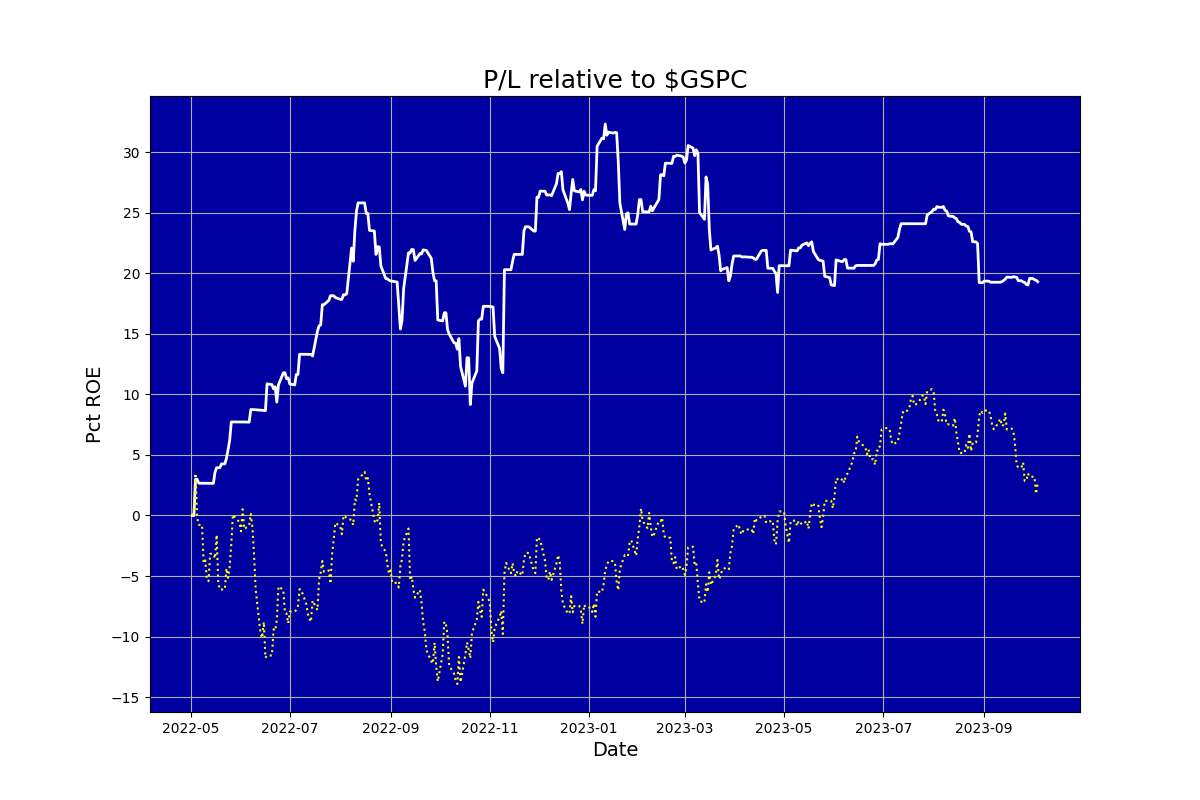
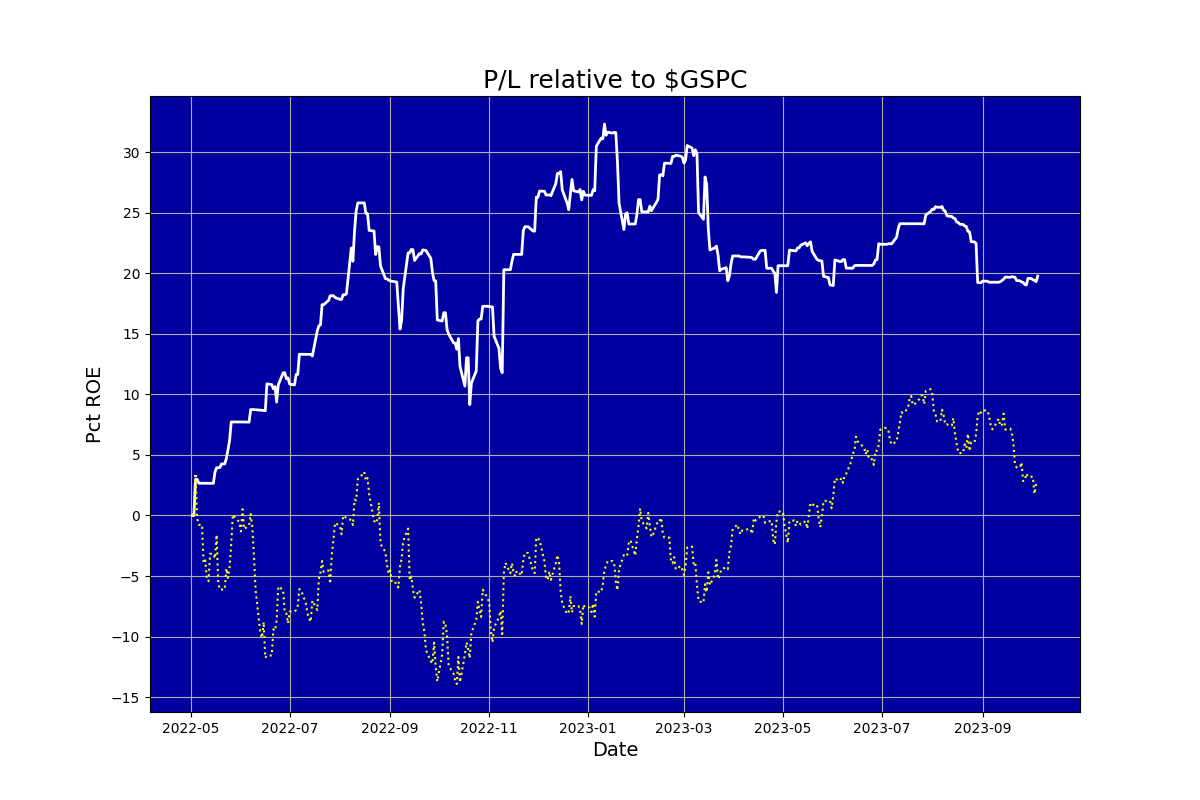
Updated

diff --git a/ig_report.html b/ig_report.html
@@ -1,1 +1,1 @@
-<html><body><center><h1>Auriel (never knowingly overbought)</h1></center><table cols=2><tr><td><img src=ig_pl.png></td><td><table cols=2><tr><td colspan=2><b><br>Snapshot</b></td></tr><tr><td>Last updated:&nbsp;&nbsp;&nbsp;</td><td>2023-10-04 15:55</td></tr><tr><td>Margin:&nbsp;&nbsp;&nbsp;</td><td>0.58</td></tr><tr><td>Cushion:&nbsp;&nbsp;&nbsp;</td><td>-44298.42</td></tr><tr><td>Last closed trade:&nbsp;&nbsp;&nbsp;</td><td>2023-10-04</td></tr><tr><td colspan=2><b><br>Positions</b></td></tr><tr><td>Mean days to new high:&nbsp;&nbsp;&nbsp;</td><td>16.72</td></tr><tr><td colspan=2><b><br>Trades</b></td></tr><tr><td>Traded days:&nbsp;&nbsp;&nbsp;</td><td>381</td></tr><tr><td>Profitable days pct:&nbsp;&nbsp;&nbsp;</td><td>34.65</td></tr><tr><td>Days beat S&P pct:&nbsp;&nbsp;&nbsp;</td><td>54.04</td></tr><tr><td>Profitable months pct:&nbsp;&nbsp;&nbsp;</td><td>61.11</td></tr><tr><td colspan=2><b><br>Performance</b></td></tr><tr><td>Pct median monthly ROE:&nbsp;&nbsp;&nbsp;</td><td>0.75</td></tr><tr><td>Pct annualised ROE:&nbsp;&nbsp;&nbsp;</td><td>12.67</td></tr><tr><td colspan=2><b><br>Risk</b></td></tr><tr><td>Volatility pct:&nbsp;&nbsp;&nbsp;</td><td>16.62</td></tr><tr><td>Benchmark volatility pct:&nbsp;&nbsp;&nbsp;</td><td>19.75</td></tr><tr><td>Sharpe ratio (RFR 5.0%):&nbsp;&nbsp;&nbsp;</td><td>0.56</td></tr><tr><td>Sortino ratio (RFR 5.0%):&nbsp;&nbsp;&nbsp;</td><td>0.75</td></tr><tr><td>Calmar ratio:&nbsp;&nbsp;&nbsp;</td><td>0.76</td></tr><tr><td>Worst drawdown pct:&nbsp;&nbsp;&nbsp;</td><td>-0.17</td></tr><tr><td>Recovery days from worst drawdown:&nbsp;&nbsp;&nbsp;</td><td>29.00</td></tr><tr><td>Beat benchmark +ve periods pct:&nbsp;&nbsp;&nbsp;</td><td>32.03</td></tr><tr><td>Beat benchmark -ve periods pct:&nbsp;&nbsp;&nbsp;</td><td>84.49</td></tr><tr><td>Correlation with benchmark:&nbsp;&nbsp;&nbsp;</td><td>0.33</td></tr></table></td></tr></table></body></html>
+<html><body><center><h1>Auriel (never knowingly overbought)</h1></center><table cols=2><tr><td><img src=ig_pl.png></td><td><table cols=2><tr><td colspan=2><b><br>Snapshot</b></td></tr><tr><td>Last updated:&nbsp;&nbsp;&nbsp;</td><td>2023-10-05 15:55</td></tr><tr><td>Margin:&nbsp;&nbsp;&nbsp;</td><td>0.55</td></tr><tr><td>Cushion:&nbsp;&nbsp;&nbsp;</td><td>-45584.16</td></tr><tr><td>Last closed trade:&nbsp;&nbsp;&nbsp;</td><td>2023-10-05</td></tr><tr><td colspan=2><b><br>Positions</b></td></tr><tr><td>Mean days to new high:&nbsp;&nbsp;&nbsp;</td><td>16.77</td></tr><tr><td colspan=2><b><br>Trades</b></td></tr><tr><td>Traded days:&nbsp;&nbsp;&nbsp;</td><td>382</td></tr><tr><td>Profitable days pct:&nbsp;&nbsp;&nbsp;</td><td>34.82</td></tr><tr><td>Days beat S&P pct:&nbsp;&nbsp;&nbsp;</td><td>54.17</td></tr><tr><td>Profitable months pct:&nbsp;&nbsp;&nbsp;</td><td>66.67</td></tr><tr><td colspan=2><b><br>Performance</b></td></tr><tr><td>Pct median monthly ROE:&nbsp;&nbsp;&nbsp;</td><td>0.75</td></tr><tr><td>Pct annualised ROE:&nbsp;&nbsp;&nbsp;</td><td>12.94</td></tr><tr><td colspan=2><b><br>Risk</b></td></tr><tr><td>Volatility pct:&nbsp;&nbsp;&nbsp;</td><td>16.60</td></tr><tr><td>Benchmark volatility pct:&nbsp;&nbsp;&nbsp;</td><td>19.72</td></tr><tr><td>Sharpe ratio (RFR 5.0%):&nbsp;&nbsp;&nbsp;</td><td>0.58</td></tr><tr><td>Sortino ratio (RFR 5.0%):&nbsp;&nbsp;&nbsp;</td><td>0.77</td></tr><tr><td>Calmar ratio:&nbsp;&nbsp;&nbsp;</td><td>0.78</td></tr><tr><td>Worst drawdown pct:&nbsp;&nbsp;&nbsp;</td><td>-0.17</td></tr><tr><td>Recovery days from worst drawdown:&nbsp;&nbsp;&nbsp;</td><td>29.00</td></tr><tr><td>Beat benchmark +ve periods pct:&nbsp;&nbsp;&nbsp;</td><td>31.93</td></tr><tr><td>Beat benchmark -ve periods pct:&nbsp;&nbsp;&nbsp;</td><td>84.46</td></tr><tr><td>Correlation with benchmark:&nbsp;&nbsp;&nbsp;</td><td>0.33</td></tr></table></td></tr></table></body></html>
